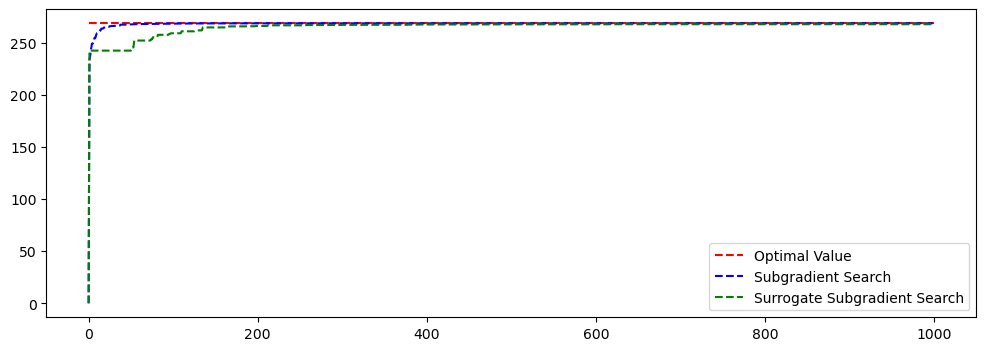
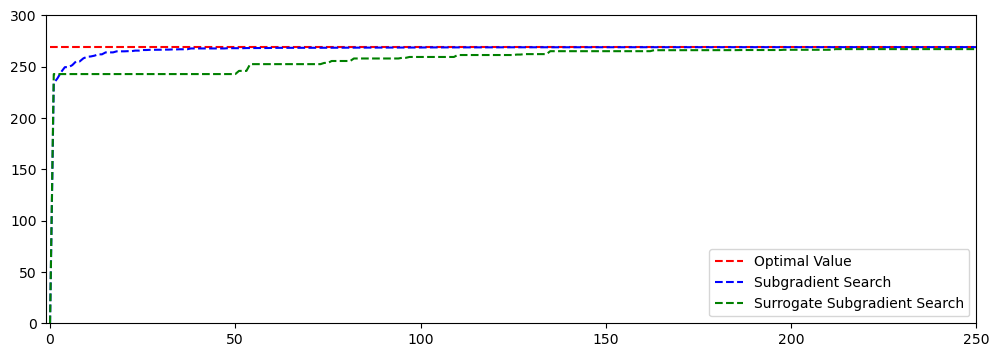
Built site for gh-pages

diff --git a/lagrange-theory.html b/lagrange-theory.html
@@ -20,7 +20,27 @@ ul.task-list li input[type="checkbox"] {
   margin: 0 0.8em 0.2em -1em; /* quarto-specific, see https://github.com/quarto-dev/quarto-cli/issues/4556 */ 
   vertical-align: middle;
 }
-</style>
+/* CSS for citations */
+div.csl-bib-body { }
+div.csl-entry {
+  clear: both;
+  margin-bottom: 0em;
+}
+.hanging-indent div.csl-entry {
+  margin-left:2em;
+  text-indent:-2em;
+}
+div.csl-left-margin {
+  min-width:2em;
+  float:left;
+}
+div.csl-right-inline {
+  margin-left:2em;
+  padding-left:1em;
+}
+div.csl-indent {
+  margin-left: 2em;
+}</style>
 
 
 <script src="site_libs/quarto-nav/quarto-nav.js"></script>
@@ -94,6 +114,35 @@ gtag('config', 'G-XM4LXJY2KJ', { 'anonymize_ip': true});
     };
 </script>
 
+  <script src="https://polyfill.io/v3/polyfill.min.js?features=es6"></script>
+  <script src="https://cdn.jsdelivr.net/npm/mathjax@3/es5/tex-chtml-full.js" type="text/javascript"></script>
+
+<script type="text/javascript">
+const typesetMath = (el) => {
+  if (window.MathJax) {
+    // MathJax Typeset
+    window.MathJax.typeset([el]);
+  } else if (window.katex) {
+    // KaTeX Render
+    var mathElements = el.getElementsByClassName("math");
+    var macros = [];
+    for (var i = 0; i < mathElements.length; i++) {
+      var texText = mathElements[i].firstChild;
+      if (mathElements[i].tagName == "SPAN") {
+        window.katex.render(texText.data, mathElements[i], {
+          displayMode: mathElements[i].classList.contains('display'),
+          throwOnError: false,
+          macros: macros,
+          fleqn: false
+        });
+      }
+    }
+  }
+}
+window.Quarto = {
+  typesetMath
+};
+</script>
 
 <meta name="twitter:title" content="Hands-on Large Scale Optimization in Python - 4&nbsp; Lagrangian Relaxation Theories">
 <meta name="twitter:description" content="">
@@ -265,7 +314,11 @@ gtag('config', 'G-XM4LXJY2KJ', { 'anonymize_ip': true});
    
   <ul>
   <li><a href="#lagrangian-relaxation-reformulation" id="toc-lagrangian-relaxation-reformulation" class="nav-link active" data-scroll-target="#lagrangian-relaxation-reformulation"><span class="header-section-number">4.1</span> Lagrangian Relaxation Reformulation</a></li>
-  <li><a href="#subgradient-search" id="toc-subgradient-search" class="nav-link" data-scroll-target="#subgradient-search"><span class="header-section-number">4.2</span> Subgradient Search</a></li>
+  <li><a href="#approximating-the-optimal-lagrange-multipliers" id="toc-approximating-the-optimal-lagrange-multipliers" class="nav-link" data-scroll-target="#approximating-the-optimal-lagrange-multipliers"><span class="header-section-number">4.2</span> Approximating the Optimal Lagrange Multipliers</a>
+  <ul class="collapse">
+  <li><a href="#subgradient-search" id="toc-subgradient-search" class="nav-link" data-scroll-target="#subgradient-search"><span class="header-section-number">4.2.1</span> Subgradient search</a></li>
+  <li><a href="#surrogate-subgradient-search" id="toc-surrogate-subgradient-search" class="nav-link" data-scroll-target="#surrogate-subgradient-search"><span class="header-section-number">4.2.2</span> Surrogate subgradient search</a></li>
+  </ul></li>
   </ul>
 </nav>
     </div>
@@ -303,12 +356,77 @@ gtag('config', 'G-XM4LXJY2KJ', { 'anonymize_ip': true});
 </ul>
 <p>Arguably, the first step is more challenging when facing a new optimization problem. The second step is often straightforward to do once one recognize the required structure is present in the model formulation. My experience in using the Lagrangian Relaxation is through problem solving. It is natural to build up intuition once one solves more optimization problem with this powerful algorithm. In this chapter and following chapter, we will use Lagrangian Relaxation to solve a number of classical optimization problems. Hopefully, the exercise will help us gain enough sense of recognizing when Lagrangian Relaxation is applicable.</p>
 <p>Regarding the second point, we will see that sometimes one original problem formulation invites multiple forms of Lagrangian relaxations and some are better than others in terms of providing tighter bounds.</p>
+<p>To illustrate the Lagrangian Relaxation process, we adopt the following primal problem model as in <span class="citation" data-cites="fisher_lagrangian_2004">Fisher (<a href="references.html#ref-fisher_lagrangian_2004" role="doc-biblioref">2004</a>)</span>. In the model, <span class="math inline">\(x\)</span> are the decision variables that are nonnegative and integral. <span class="math inline">\(c\)</span> are the cost coefficients in the objective function. There are two constraints <span class="math inline">\(Ax = b\)</span> and <span class="math inline">\(Dx \leq e\)</span> in the model that by putting one of them into the objective function, the remaining problem becomes easier to solve.</p>
+<p>One example of such case is that <span class="math inline">\(Dx \leq e\)</span> are separable constraints and <span class="math inline">\(Ax = b\)</span> are the complicating constraints that couple all the separable constraints together. After lifting the coupling constraints into the objective function, the remaining problems consists in several independent subproblems and become much tractable to solve.</p>
+<p><span class="math display">\[\begin{align}
+\text{min.} &amp;\quad cx \label{p-obj} \\
+\text{s.t.} &amp;\quad Ax = b \label{p-cons1} \\
+    &amp;\quad Dx \leq e \label{p-cons2} \\
+    &amp;\quad x \geq 0 \ \text{and integral}
+\end{align}\]</span></p>
+<p>To perform Lagrangian Relaxation, we define a vector of Lagrange multipliers for constraints <span class="math inline">\(\eqref{p-cons1}\)</span> and penalize the constraint violations in the objective function.</p>
+<p><span class="math display">\[\begin{align}
+q(u) = \text{min.} &amp;\quad cx + u(Ax - b) \label{lr-obj} \\
+\text{s.t.} &amp;\quad Dx \leq e \label{lr-cons1} \\
+    &amp;\quad x \geq 0 \ \text{and integral}
+\end{align}\]</span></p>
+<p>Note that for any given vector of <span class="math inline">\(u\)</span>, the optimal objective value of the Lagrangian Relaxation is one lower bound of the optimal value of the original problem. The our goal is to find the optimal value of <span class="math inline">\(u^*\)</span> that gives up the best lower bound for the original problem. This dual problem id formally defined below.</p>
+<p><span class="math display">\[\begin{align}
+\text{max.} &amp;\quad q(u) \\
+\text{s.t.} &amp;\quad u \ \text{unrestricted}
+\end{align}\]</span></p>
+<p>Note that the sign of the Lagrange multipliers is decided by the form of objective sense of the original problem and the constraints that are relaxed. In the aforementioned case, the primal objective is minimization and the relaxed constraints take the ‘=’ sign. The value of <span class="math inline">\(Ax\)</span> could be smaller or greater than <span class="math inline">\(b\)</span> and therefore the violations could be positive or negative, which leads to the unrestricted sign of the multipliers <span class="math inline">\(u\)</span>. If the constraints <span class="math inline">\(\eqref{p-cons2}\)</span> are relaxed, the associated Lagrange multipliers must be restricted to <span class="math inline">\(u \geq 0\)</span>.</p>
 </section>
-<section id="subgradient-search" class="level2" data-number="4.2">
-<h2 data-number="4.2" class="anchored" data-anchor-id="subgradient-search"><span class="header-section-number">4.2</span> Subgradient Search</h2>
-<p>The essential component of Lagrangian relaxation is the use of Lagrange multipliers to penalize the violation of constraints that we choose to put in the objective function. The determination of the values of Lagrange multipliers is through the subgradient search algorithm, which is outlined in this section and illustrated in following chapters through concrete examples.</p>
+<section id="approximating-the-optimal-lagrange-multipliers" class="level2" data-number="4.2">
+<h2 data-number="4.2" class="anchored" data-anchor-id="approximating-the-optimal-lagrange-multipliers"><span class="header-section-number">4.2</span> Approximating the Optimal Lagrange Multipliers</h2>
+<p>The essential component of Lagrangian relaxation is the use of Lagrange multipliers to penalize the violation of constraints that we choose to put in the objective function. There are several approaches proposed in the literature to approximate the optimal <span class="math inline">\(u\)</span> values. In the following section, we introduce two such algorithms, namely, subgradient search and surrogate subgradient search.</p>
+<section id="subgradient-search" class="level3" data-number="4.2.1">
+<h3 data-number="4.2.1" class="anchored" data-anchor-id="subgradient-search"><span class="header-section-number">4.2.1</span> Subgradient search</h3>
+<p>The subgradient search algorithm was proposed by <span class="citation" data-cites="polyak_minimization_1969">Polyak (<a href="references.html#ref-polyak_minimization_1969" role="doc-biblioref">1969</a>)</span>. The algorithm workflow is as follows:</p>
+<ul>
+<li>Step 0: initialize stopping criteria. Set lower bound <span class="math inline">\(lb = -\infty\)</span>. Obtain the best bound <span class="math inline">\(q(u^*)\)</span> and prepare the starting values of the Lagrange multipliers <span class="math inline">\(u^k\)</span> with <span class="math inline">\(k\)</span> as the iteration count, <span class="math inline">\(k=0\)</span>.</li>
+<li>Step 1: solve the Lagrangian Relaxation with <span class="math inline">\(u^k\)</span> to get the optimal objective value <span class="math inline">\(q(u^k)\)</span> and relaxed constraint violations <span class="math inline">\(g(x^k) = Ax^k - b\)</span>. Update <span class="math inline">\(lb = g(u^k)\)</span> if <span class="math inline">\(lb &lt; q(u^k)\)</span>.</li>
+<li>Step 2: checking stopping criteria. If satisfied, output the best lower bound <span class="math inline">\(lb\)</span>.</li>
+<li>Step 3: compute the updated Lagrange multipliers according to <span class="math display">\[\begin{align}
+u^{k+1} = u^k + s^k g(x^k)
+\end{align}\]</span> where <span class="math inline">\(s^k\)</span> is the step size and is computed as <span class="math display">\[\begin{align}
+s^k = \gamma \cdot \frac{q(u^*) - q(u^k)}{\lVert g(x^k) \rVert^2}, \ \gamma &lt; 2
+\end{align}\]</span></li>
+<li>Step 4: let <span class="math inline">\(k = k + 1\)</span> and go to step 1.</li>
+</ul>
+<p>In the above algorithm workflow, <span class="math inline">\(g(x^k)\)</span> represents the violations of the relaxed constraints that are lifted into the objective function. It is also used as the subgradient to update the Lagrange multipliers.</p>
+</section>
+<section id="surrogate-subgradient-search" class="level3" data-number="4.2.2">
+<h3 data-number="4.2.2" class="anchored" data-anchor-id="surrogate-subgradient-search"><span class="header-section-number">4.2.2</span> Surrogate subgradient search</h3>
+<p>The surrogate subgradient search we introduce here was proposed by <span class="citation" data-cites="bragin_convergence_2015">Bragin et al. (<a href="references.html#ref-bragin_convergence_2015" role="doc-biblioref">2015</a>)</span>. It follows similar steps with the subgradient search algorithm with the major difference in how the step size is computed.</p>
+<ul>
+<li>Step 0: initialize stopping criteria. Set lower bound <span class="math inline">\(lb = -\infty\)</span>. Obtain the best bound <span class="math inline">\(q(u^*)\)</span> through best available heuristic and <span class="math inline">\(x^0\)</span> through solving the relaxed problem with <span class="math inline">\(u^0\)</span>. Let <span class="math inline">\(k = 1\)</span>. Prepare the starting values of the step size <span class="math inline">\(s^0\)</span> using <span class="math display">\[\begin{align}
+s^0 = \frac{q(u^*) - q(u^0)}{\lVert g(x^0) \rVert^2}
+\end{align}\]</span></li>
+<li>Step 1: update <span class="math inline">\(\alpha_k\)</span> with <span class="math display">\[\begin{align}
+\alpha_k = 1 - \frac{1}{M\cdot k^p}, \ p = 1 - \frac{1}{k^r}, \ M \geq 1, \ 0 &lt; r &lt; 1, k = 1, 2, \cdots
+\end{align}\]</span> Then update the step size <span class="math inline">\(s^k\)</span> using <span class="math display">\[\begin{align}
+s^k = \alpha_k \frac{s^{k-1}\lVert g(x^{k - 1}) \rVert}{\lVert g(x^{k}) \rVert}, \ 0 &lt; \alpha_k &lt; 1, k = 1, 2, \cdots
+\end{align}\]</span> Then update the Lagrange multipliers with <span class="math display">\[\begin{align}
+u^{k+1} = u^k + s^k g(x^k)
+\end{align}\]</span></li>
+<li>Step 2: solve the relaxed problem with the updated multipliers.</li>
+<li>Step 3: checking stopping criteria. If satisfied, output the best lower bound <span class="math inline">\(lb\)</span>. Otherwise, go to step 1.</li>
+</ul>
 
 
+<div id="refs" class="references csl-bib-body hanging-indent" data-entry-spacing="0" role="list" style="display: none">
+<div id="ref-bragin_convergence_2015" class="csl-entry" role="listitem">
+Bragin, Mikhail A., Peter B. Luh, Joseph H. Yan, Nanpeng Yu, and Gary A. Stern. 2015. <span>“Convergence of the <span>Surrogate</span> <span>Lagrangian</span> <span>Relaxation</span> <span>Method</span>.”</span> <em>Journal of Optimization Theory and Applications</em> 164 (1): 173–201. <a href="https://doi.org/10.1007/s10957-014-0561-3">https://doi.org/10.1007/s10957-014-0561-3</a>.
+</div>
+<div id="ref-fisher_lagrangian_2004" class="csl-entry" role="listitem">
+Fisher, Marshall L. 2004. <span>“The <span>Lagrangian</span> <span>Relaxation</span> <span>Method</span> for <span>Solving</span> <span>Integer</span> <span>Programming</span> <span>Problems</span>.”</span> <em>Management Science</em> 50 (12_supplement): 1861–71. <a href="https://doi.org/10.1287/mnsc.1040.0263">https://doi.org/10.1287/mnsc.1040.0263</a>.
+</div>
+<div id="ref-polyak_minimization_1969" class="csl-entry" role="listitem">
+Polyak, B. T. 1969. <span>“Minimization of Unsmooth Functionals.”</span> <em>USSR Computational Mathematics and Mathematical Physics</em> 9 (3): 14–29. <a href="https://doi.org/10.1016/0041-5553(69)90061-5">https://doi.org/10.1016/0041-5553(69)90061-5</a>.
+</div>
+</div>
+</section>
 </section>
 
 </main> <!-- /main -->

diff --git a/lagrange-assignment.html b/lagrange-assignment.html
@@ -335,9 +335,10 @@ window.Quarto = {
   <li><a href="#solve-the-original-problem" id="toc-solve-the-original-problem" class="nav-link" data-scroll-target="#solve-the-original-problem"><span class="header-section-number">5.3.2</span> Solve the original problem</a></li>
   <li><a href="#solve-the-lagrangian-relaxation-with-fixed-multipliers" id="toc-solve-the-lagrangian-relaxation-with-fixed-multipliers" class="nav-link" data-scroll-target="#solve-the-lagrangian-relaxation-with-fixed-multipliers"><span class="header-section-number">5.3.3</span> Solve the Lagrangian relaxation with fixed multipliers</a></li>
   <li><a href="#approximating-the-best-lagrange-multipliers" id="toc-approximating-the-best-lagrange-multipliers" class="nav-link" data-scroll-target="#approximating-the-best-lagrange-multipliers"><span class="header-section-number">5.3.4</span> Approximating the best Lagrange multipliers</a></li>
+  <li><a href="#performance-comparison" id="toc-performance-comparison" class="nav-link" data-scroll-target="#performance-comparison"><span class="header-section-number">5.3.5</span> Performance comparison</a></li>
   </ul></li>
   <li><a href="#alternative-relaxation" id="toc-alternative-relaxation" class="nav-link" data-scroll-target="#alternative-relaxation"><span class="header-section-number">5.4</span> Alternative Relaxation</a></li>
-  <li><a href="#performance-comparison" id="toc-performance-comparison" class="nav-link" data-scroll-target="#performance-comparison"><span class="header-section-number">5.5</span> Performance Comparison</a></li>
+  <li><a href="#comparison-with-linear-programming-relaxation" id="toc-comparison-with-linear-programming-relaxation" class="nav-link" data-scroll-target="#comparison-with-linear-programming-relaxation"><span class="header-section-number">5.5</span> Comparison with Linear Programming Relaxation</a></li>
   </ul>
 </nav>
     </div>
@@ -378,14 +379,12 @@ window.Quarto = {
 </ul>
 <p>The goal is to find an assignment of tasks to agents that minimizes the total cost or maximizes the total profit, while ensuring that each task is assigned to one or more agents, and the total resource requirement of each agent does not exceed its capacity.</p>
 <p>Mathematically, the GAP can be formulated as an integer linear programming problem. One possible formulation is as follows:</p>
-<p><span class="math display">\[
-\begin{aligned}
+<p><span class="math display">\[\begin{align}
 \text{min.} &amp;\quad \sum_{i=1}^{n} \sum_{j=1}^{m} c_{ij} x_{ij} \label{gap-obj}\\
 \text{s.t.} &amp;\quad \sum_{j=1}^{m} x_{ij} = 1, \ \forall i = 1, 2, ..., n \label{gap-cons1}\\
 &amp;\quad \sum_{i=1}^{n} r_{ij} x_{ij} \leq b_j, \  \forall j = 1, 2, ..., m \label{gap-cons2}\\
 &amp;\quad x_{ij} \in \{0, 1\}, \ \forall i = 1, 2, ..., n, j = 1, 2, ..., m \label{gap-cons3}
-\end{aligned}
-\]</span></p>
+\end{align}\]</span></p>
 <p>where <span class="math inline">\(x_{ij}\)</span> is a binary decision variable that equals 1 if task <span class="math inline">\(i\)</span> is assigned to agent <span class="math inline">\(j\)</span>, and 0 otherwise.</p>
 <p>The first set of constraints ensures that each task is assigned to exactly one agent, and the second set of constraints ensures that the total resource requirement of each agent does not exceed its capacity.</p>
 <p>Solving the GAP can be computationally challenging, especially for large instances, as it is a generalization of the classic assignment problem, which is known to be polynomial-time solvable. Various algorithms and heuristics, such as branch and bound, dynamic programming, and approximation algorithms, can be employed to find feasible or optimal solutions to the GAP.</p>
@@ -393,13 +392,11 @@ window.Quarto = {
 <section id="lagrangian-relaxation" class="level2" data-number="5.2">
 <h2 data-number="5.2" class="anchored" data-anchor-id="lagrangian-relaxation"><span class="header-section-number">5.2</span> Lagrangian Relaxation</h2>
 <p>The essence of Lagrangian relaxation is to choose some ‘hard’ constraints in the original model formulation and put them into the objective function. In the meantime, Lagrange multipliers are used to penalize the violations of these constraints. In the GAP formulation, we could choose the constraints <span class="math inline">\(\eqref{gap-cons1}\)</span> and put them into the objective function, which gives us the corresponding Lagrangian relaxation:</p>
-<p><span class="math display">\[
-\begin{aligned}
+<p><span class="math display">\[\begin{align}
 LR(v): \text{min.} &amp;\quad \sum_{i=1}^{n} \sum_{j=1}^{m} c_{ij} x_{ij} + \sum_{i=1}^{n} v_i (\sum_{j=1}^{m} x_{ij} - 1) \label{gap-lr-obj}\\
 \text{s.t.} &amp;\quad \sum_{i=1}^{n} r_{ij} x_{ij} \leq b_j, \  \forall j = 1, 2, ..., m \label{gap-lr-cons1}\\
 &amp;\quad x_{ij} \in \{0, 1\}, \ \forall i = 1, 2, ..., n, j = 1, 2, ..., m \label{gap-lr-cons2}
-\end{aligned}
-\]</span></p>
+\end{align}\]</span></p>
 <p>In the above formulation, <span class="math inline">\(v_i\)</span> is the Lagrange multiplier associated with each task <span class="math inline">\(i\)</span>. Note that the optimal objective value of <span class="math inline">\(LR(v)\)</span> for a given <span class="math inline">\(v\)</span> serves as a lower bound of the original problem. Our goal is then to find the best value of <span class="math inline">\(v\)</span> such that the best lower bound is obtained for the original problem.</p>
 </section>
 <section id="implementation" class="level2" data-number="5.3">
@@ -1013,7 +1010,11 @@ Optimal objective = 36.43</code></pre>
 <span id="cb19-102"><a href="#cb19-102" aria-hidden="true" tabindex="-1"></a>            </span>
 <span id="cb19-103"><a href="#cb19-103" aria-hidden="true" tabindex="-1"></a>        <span class="cf">return</span> lb, iterations, lower_bounds</span></code><button title="Copy to Clipboard" class="code-copy-button"><i class="bi"></i></button></pre></div>
 </div>
-<div id="cell-41" class="cell" data-execution_count="104">
+</section>
+</section>
+<section id="performance-comparison" class="level3" data-number="5.3.5">
+<h3 data-number="5.3.5" class="anchored" data-anchor-id="performance-comparison"><span class="header-section-number">5.3.5</span> Performance comparison</h3>
+<div id="cell-42" class="cell" data-execution_count="104">
 <div class="sourceCode cell-code" id="cb20"><pre class="sourceCode python code-with-copy"><code class="sourceCode python"><span id="cb20-1"><a href="#cb20-1" aria-hidden="true" tabindex="-1"></a>instance <span class="op">=</span> instances[<span class="dv">1</span>]</span>
 <span id="cb20-2"><a href="#cb20-2" aria-hidden="true" tabindex="-1"></a></span>
 <span id="cb20-3"><a href="#cb20-3" aria-hidden="true" tabindex="-1"></a>approximator_ss <span class="op">=</span> ScipGapSubgradientSearch(instance)</span>
@@ -1024,23 +1025,26 @@ Optimal objective = 36.43</code></pre>
 <span id="cb20-8"><a href="#cb20-8" aria-hidden="true" tabindex="-1"></a>approximator_sss.set_max_iter(<span class="dv">1000</span>)</span>
 <span id="cb20-9"><a href="#cb20-9" aria-hidden="true" tabindex="-1"></a>best_bound_sss, iterations_sss, lower_bounds_sss <span class="op">=</span> approximator_sss.solve(verbose<span class="op">=</span><span class="va">False</span>)</span></code><button title="Copy to Clipboard" class="code-copy-button"><i class="bi"></i></button></pre></div>
 </div>
-<div id="cell-42" class="cell" data-execution_count="105">
+<div id="cell-43" class="cell" data-execution_count="105">
 <div class="sourceCode cell-code" id="cb21"><pre class="sourceCode python code-with-copy"><code class="sourceCode python"><span id="cb21-1"><a href="#cb21-1" aria-hidden="true" tabindex="-1"></a>best_bound_ss, best_bound_sss</span></code><button title="Copy to Clipboard" class="code-copy-button"><i class="bi"></i></button></pre></div>
 <div class="cell-output cell-output-display" data-execution_count="105">
 <pre><code>(269.00000010648733, 268.0917422821587)</code></pre>
 </div>
 </div>
-<div id="cell-43" class="cell" data-execution_count="106">
+<div id="cell-44" class="cell" data-execution_count="115">
 <div class="sourceCode cell-code" id="cb23"><pre class="sourceCode python code-with-copy"><code class="sourceCode python"><span id="cb23-1"><a href="#cb23-1" aria-hidden="true" tabindex="-1"></a><span class="im">import</span> matplotlib.pyplot <span class="im">as</span> plt</span>
 <span id="cb23-2"><a href="#cb23-2" aria-hidden="true" tabindex="-1"></a></span>
 <span id="cb23-3"><a href="#cb23-3" aria-hidden="true" tabindex="-1"></a>fit, ax <span class="op">=</span> plt.subplots(<span class="dv">1</span>, <span class="dv">1</span>, figsize<span class="op">=</span>(<span class="dv">12</span>, <span class="dv">4</span>))</span>
 <span id="cb23-4"><a href="#cb23-4" aria-hidden="true" tabindex="-1"></a></span>
-<span id="cb23-5"><a href="#cb23-5" aria-hidden="true" tabindex="-1"></a>bound <span class="op">=</span> approximator_ss.best_bound</span>
-<span id="cb23-6"><a href="#cb23-6" aria-hidden="true" tabindex="-1"></a>ax.plot(iterations_ss, np.ones(<span class="bu">len</span>(iterations_ss))<span class="op">*</span>bound, <span class="st">'r--'</span>, label<span class="op">=</span><span class="st">'Optimal Value'</span>)</span>
+<span id="cb23-5"><a href="#cb23-5" aria-hidden="true" tabindex="-1"></a>opt_obj <span class="op">=</span> approximator_ss.best_bound</span>
+<span id="cb23-6"><a href="#cb23-6" aria-hidden="true" tabindex="-1"></a>ax.plot(iterations_ss, np.ones(<span class="bu">len</span>(iterations_ss))<span class="op">*</span>opt_obj, <span class="st">'r--'</span>, label<span class="op">=</span><span class="st">'Optimal Value'</span>)</span>
 <span id="cb23-7"><a href="#cb23-7" aria-hidden="true" tabindex="-1"></a>ax.plot(iterations_ss, lower_bounds_ss, <span class="st">'b--'</span>, label<span class="op">=</span><span class="st">'Subgradient Search'</span>)</span>
 <span id="cb23-8"><a href="#cb23-8" aria-hidden="true" tabindex="-1"></a>ax.plot(iterations_sss, lower_bounds_sss, <span class="st">'g--'</span>, label<span class="op">=</span><span class="st">'Surrogate Subgradient Search'</span>)</span>
 <span id="cb23-9"><a href="#cb23-9" aria-hidden="true" tabindex="-1"></a></span>
-<span id="cb23-10"><a href="#cb23-10" aria-hidden="true" tabindex="-1"></a>ax.legend()</span></code><button title="Copy to Clipboard" class="code-copy-button"><i class="bi"></i></button></pre></div>
+<span id="cb23-10"><a href="#cb23-10" aria-hidden="true" tabindex="-1"></a>ax.set_xlim(<span class="op">-</span><span class="dv">1</span>, <span class="dv">250</span>)</span>
+<span id="cb23-11"><a href="#cb23-11" aria-hidden="true" tabindex="-1"></a>ax.set_ylim(<span class="dv">0</span>, <span class="dv">300</span>)</span>
+<span id="cb23-12"><a href="#cb23-12" aria-hidden="true" tabindex="-1"></a></span>
+<span id="cb23-13"><a href="#cb23-13" aria-hidden="true" tabindex="-1"></a>ax.legend(loc<span class="op">=</span><span class="st">'lower right'</span>)</span></code><button title="Copy to Clipboard" class="code-copy-button"><i class="bi"></i></button></pre></div>
 <div class="cell-output cell-output-display">
 <div>
 <figure class="figure">
@@ -1051,12 +1055,24 @@ Optimal objective = 36.43</code></pre>
 </div>
 </section>
 </section>
-</section>
 <section id="alternative-relaxation" class="level2" data-number="5.4">
 <h2 data-number="5.4" class="anchored" data-anchor-id="alternative-relaxation"><span class="header-section-number">5.4</span> Alternative Relaxation</h2>
+<p>In this section, we explore the performance of Lagrangian Relaxation if a different set of constraints were lifted into the objective function. The reformulation takes on the following form:</p>
+<p><span class="math display">\[\begin{align}
+q(u) = \text{min.} &amp;\quad \sum_{i=1}^{n} \sum_{j=1}^{m} c_{ij} x_{ij} + \sum_{j=1}^m u_j (\sum_{i=1}^{n} r_{ij} x_{ij} - b_j) \label{gap-lr2-obj}\\
+\text{s.t.} &amp;\quad \sum_{j=1}^{m} x_{ij} = 1, \ \forall i = 1, 2, ..., n \label{gap-lr2-cons1}\\
+&amp;\quad x_{ij} \in \{0, 1\}, \ \forall i = 1, 2, ..., n, j = 1, 2, ..., m \label{gap-lr2-cons3}
+\end{align}\]</span></p>
+<p>The corresponding dual problem is defined as below:</p>
+<p><span class="math display">\[\begin{align}
+\text{max.} &amp;\quad q(u) \\
+\text{s.t.} &amp;\quad u \geq 0
+\end{align}\]</span></p>
+<p>Note that any violation of the relaxed constraints is penalized by a positive <span class="math inline">\(u\)</span> multiplier.</p>
 </section>
-<section id="performance-comparison" class="level2" data-number="5.5">
-<h2 data-number="5.5" class="anchored" data-anchor-id="performance-comparison"><span class="header-section-number">5.5</span> Performance Comparison</h2>
+<section id="comparison-with-linear-programming-relaxation" class="level2" data-number="5.5">
+<h2 data-number="5.5" class="anchored" data-anchor-id="comparison-with-linear-programming-relaxation"><span class="header-section-number">5.5</span> Comparison with Linear Programming Relaxation</h2>
+<p>Now we have two forms of Lagrangian Relaxations and we give here some empirical performance evidence of the strength of this relaxation against linear programming relaxation.</p>
 
 
 </section>

diff --git a/references.html b/references.html
@@ -301,8 +301,26 @@ gtag('config', 'G-XM4LXJY2KJ', { 'anonymize_ip': true});
 </header>
 
 
-<div id="refs" role="list" style="display: none">
-
+<div id="refs" class="references csl-bib-body hanging-indent" data-entry-spacing="0" role="list">
+<div id="ref-bragin_convergence_2015" class="csl-entry" role="listitem">
+Bragin, Mikhail A., Peter B. Luh, Joseph H. Yan, Nanpeng Yu, and Gary A.
+Stern. 2015. <span>“Convergence of the <span>Surrogate</span>
+<span>Lagrangian</span> <span>Relaxation</span>
+<span>Method</span>.”</span> <em>Journal of Optimization Theory and
+Applications</em> 164 (1): 173–201. <a href="https://doi.org/10.1007/s10957-014-0561-3">https://doi.org/10.1007/s10957-014-0561-3</a>.
+</div>
+<div id="ref-fisher_lagrangian_2004" class="csl-entry" role="listitem">
+Fisher, Marshall L. 2004. <span>“The <span>Lagrangian</span>
+<span>Relaxation</span> <span>Method</span> for <span>Solving</span>
+<span>Integer</span> <span>Programming</span>
+<span>Problems</span>.”</span> <em>Management Science</em> 50
+(12_supplement): 1861–71. <a href="https://doi.org/10.1287/mnsc.1040.0263">https://doi.org/10.1287/mnsc.1040.0263</a>.
+</div>
+<div id="ref-polyak_minimization_1969" class="csl-entry" role="listitem">
+Polyak, B. T. 1969. <span>“Minimization of Unsmooth Functionals.”</span>
+<em>USSR Computational Mathematics and Mathematical Physics</em> 9 (3):
+14–29. <a href="https://doi.org/10.1016/0041-5553(69)90061-5">https://doi.org/10.1016/0041-5553(69)90061-5</a>.
+</div>
 </div>
 
 
